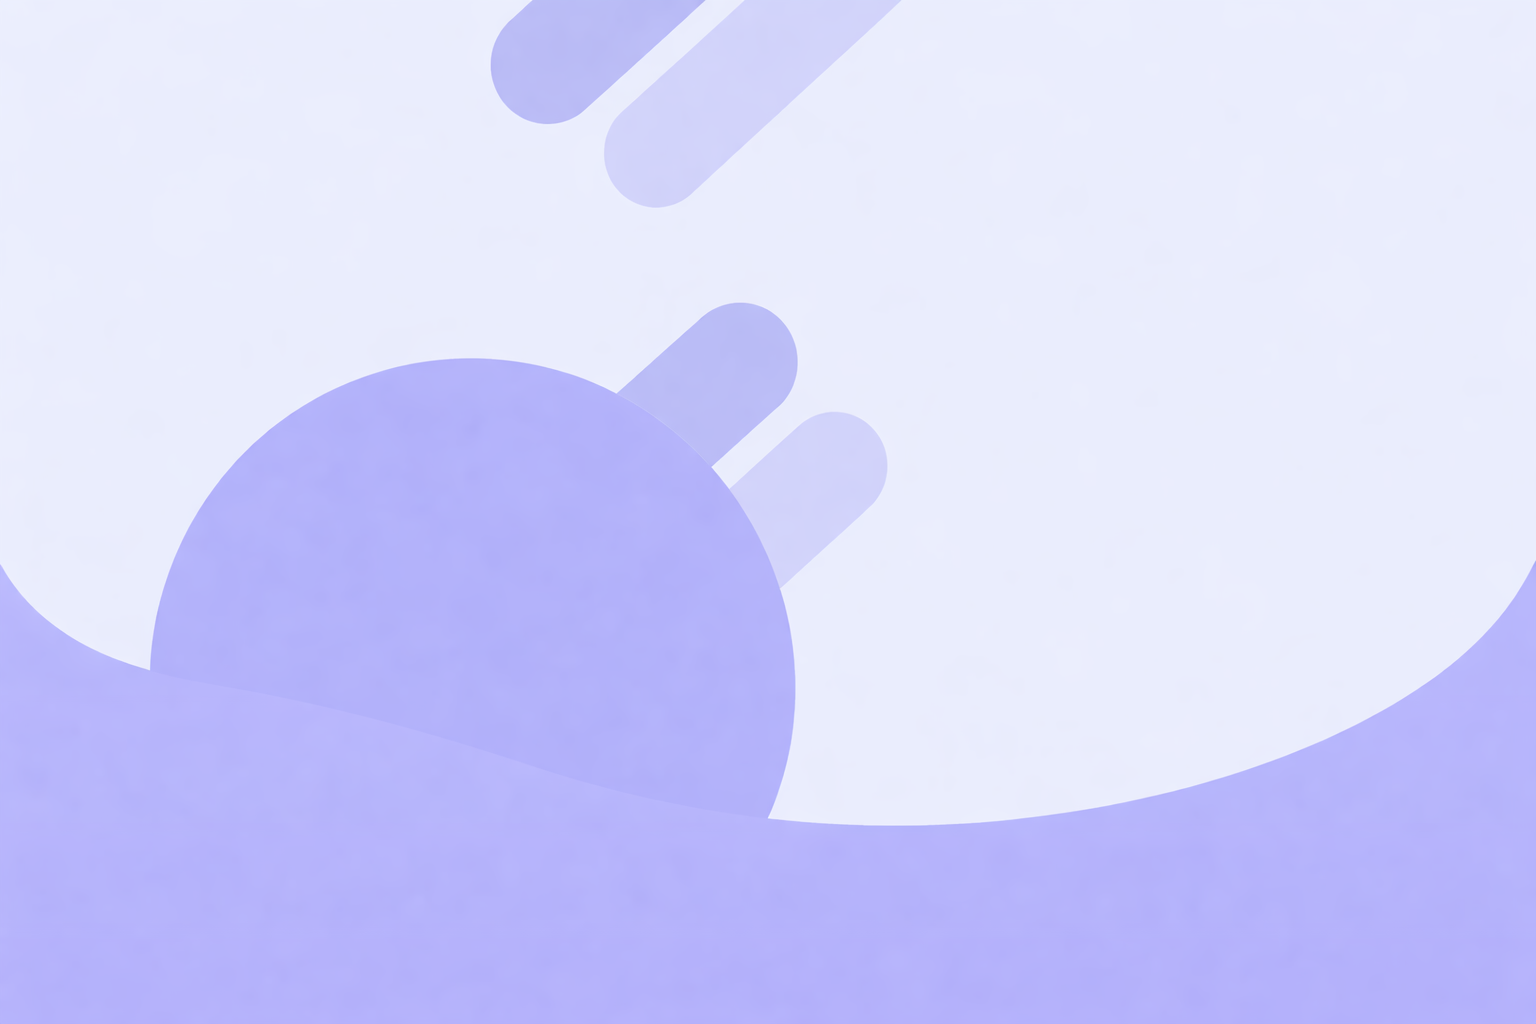
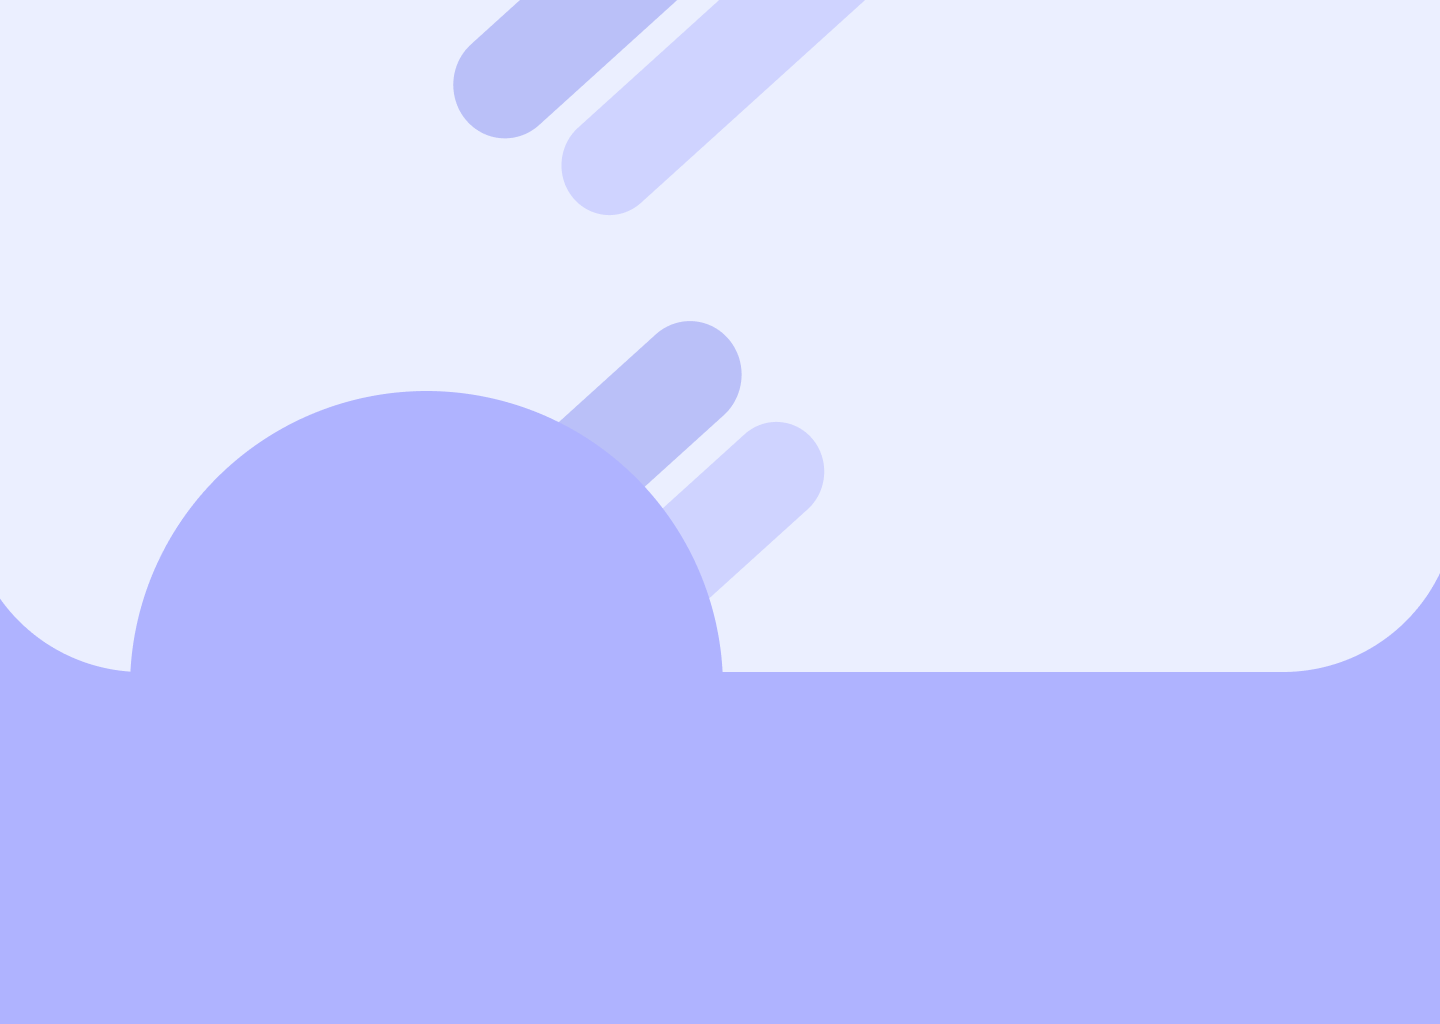
change made

diff --git a/src/Forms/ContactForm.jsx b/src/Forms/ContactForm.jsx
@@ -1,5 +1,5 @@
 import { useForm } from "react-hook-form";
-import { Box,Button,TextField } from "@mui/material"
+import { Box,Button,FormControl,FormLabel } from "@mui/material"
 import FormInput from "../components/Form/FormInput"
 
 
@@ -7,7 +7,9 @@ export default function ContactForm(){
 
     const {register,handleSubmit,formState : {errors}} = useForm({mode: "onChange"});
     
-    const onSubmit = (data) => console.log(data)
+    const onSubmit = (data) => {
+        console.log(data)
+    }
 
     return(
         <Box sx={{
@@ -18,57 +20,87 @@ export default function ContactForm(){
                 display: "flex",
                 flexDirection: "column",
                 alignItems:"center",
-                gap: {
-                    xs: "15px",
-                }
+                gap: "10px",
+                "& .MuiFormControl-root": {
+                    gap: 1,
+                    "& .MuiFormLabel-root": {
+                        fontFamily: "Montserrat",
+                        color: ""
+                    }
+                },
+                boxShadow: "0 0 10px 0 rgba(45, 45, 45, 0.4)",
+                padding: "30px",
+                bgcolor: "#EBEFFF",
+                borderRadius: "5px"
             }}>
-                <FormInput 
-                    label = "Enter Your Name:"
-                    name = "name"
-                    register = {register}
-                    errors={errors}
-                    validation={{
-                        required: "Name is Required",
-                        minLength: {
-                            value: 5,
-                            message: "Minimum 5 Characters"
-                        }
-                    }}
-                />
-                <FormInput 
-                    label = "Enter Your Email:"
-                    name = "email"
-                    register = {register}
-                    errors={errors}
-                    validation={{
-                        required: "Email is Required",
-                        pattern: {
-                            value: /^[A-Za-z0-9._%+-]+@[A-Za-z0-9.-]+\.[A-Za-z]{2,}$/i,
-                            message: "Email is not Valid"
-                        }
-                    }}
-                />
-                <FormInput 
-                    label = "Enter Your Mobile Number:"
-                    name = "mobile"
-                    register = {register}
-                    errors={errors}
-                    validation={{
-                        required: "Mobile Number is Required",
-                        minLength: {
-                            value: 10,
-                            message: "Mobile Number Should Have 10 Numbers"
-                        }
-                    }}
-                />
-                <TextField label="Message" multiline rows={4} color="secondary" focused sx={{width: {
-                    md: "500px",
-                    sm: "250px"
-                }}}/>
+                <FormControl sx={{
+                }}>
+                    <FormLabel htmlFor="full-name">Full Name:</FormLabel>
+                    <FormInput
+                        id = "full-name"
+                        name = "name"
+                        register = {register}
+                        errors={errors}
+                        validation={{
+                            required: "Name is Required",
+                            minLength: {
+                                value: 5,
+                                message: "Minimum 5 Characters"
+                            }
+                        }}
+                    />
+                </FormControl>
+                <FormControl>
+                    <FormLabel htmlFor="email-address">Email:</FormLabel>
+                    <FormInput 
+                        id = "email-address"
+                        name = "email"
+                        register = {register}
+                        errors={errors}
+                        validation={{
+                            required: "Email is Required",
+                            pattern: {
+                                value: /^[A-Za-z0-9._%+-]+@[A-Za-z0-9.-]+\.[A-Za-z]{2,}$/i,
+                                message: "Email is not Valid"
+                            }
+                        }}
+                    />
+                </FormControl>
+                <FormControl>
+                    <FormLabel htmlFor="mobile-number">Mobile Number:</FormLabel>
+                    <FormInput 
+                        id = "mobile-number"
+                        name = "mobile"
+                        register = {register}
+                        errors={errors}
+                        validation={{
+                            required: "Mobile Number is Required",
+                            pattern: {
+                                value: /^[0-9]{10}$/,
+                                message: "Mobile Number Should Have 10 Numbers"
+                            }
+                        }}
+                    />
+                </FormControl>
+                <FormControl>
+                    <FormLabel htmlFor="send-message">Write Your Message Here:</FormLabel>
+                    <FormInput 
+                        id = "send-message"
+                        name = "message"
+                        register = {register}
+                        errors={errors}
+                        multiline
+                        rows={5}
+                    />
+                </FormControl>
+                
                 <Button type="submit" variant="contained" sx={{
-                    width:{
-                        md: "100px"
-                    }}}>
+                    alignSelf: "flex-end",
+                    bgcolor: "#656ED3",
+                    color: "#AFB3FF",
+                    borderRadius: "12px",
+                    padding: "5px 25px"
+                    }}>
                     Submit
                 </Button>
             </Box>

diff --git a/src/components/Form/FormInput.jsx b/src/components/Form/FormInput.jsx
@@ -1,13 +1,43 @@
 import { TextField } from "@mui/material";
 
-export default function FormInput({label,name,register,errors,validation,rows,...rest}){
-    console.log(rest)
+export default function FormInput({id,name,register,errors,validation,multiline = false,rows = 1,...rest}){
+
 
     return(
-        <TextField rows={rows} label={label} {...register(name,validation)} error={!!errors[name]} helperText={errors[name]?.message} color="secondary" size="small" {...rest} focused sx={{
+        <TextField 
+        id = {id}
+        multiline={multiline}
+        rows={rows} 
+        {...register(name,validation)} 
+        error={!!errors[name]} 
+        helperText={errors[name]?.message} 
+        color="secondary" 
+        size="small" 
+        {...rest} 
+        sx={{
+            fontFamily: "monospace",
             width: {
                 md: "500px",
                 sm: "250px"
+            },
+            "& .MuiOutlinedInput-root": {
+                borderRadius: "20px",
+                "& fieldset": {
+                    borderWidth: "2px",
+                borderColor: "#AFB3FF"
+                },
+                "&:hover fieldset": {
+                borderColor: "#656ED3"
+                },
+                "&.Mui-focused fieldset": {
+                borderColor: "green"
+            }}
+        }}
+        InputProps={{
+            sx: {
+                fontFamily: "monospace",
+                fontSize: "14px",
+                color: "gray"
             }
         }}/>
     )

diff --git a/src/components/Contact/Contact.jsx b/src/components/Contact/Contact.jsx
@@ -1,19 +1,41 @@
 import SectionHeading from "../SectionHeading";
 import ContactForm from "../../Forms/ContactForm";
-import { Box } from "@mui/material";
-import { useForm } from 'react-hook-form'
+import { Box,Typography } from "@mui/material";
+import {h3style} from "../Other"
 
 export default function Contact(){
 
     return(
         <Box sx={{
-            backgroundImage: "url('contact.png')",
+            height: "100vh",
+            backgroundImage: "url('contact1.png')",
             backgroundSize: "cover",
             backgroundPosition: "center",
+            padding: {
+                sm: "50px",md: "70px"
+            }
         }}>
-            <SectionHeading categories="CONTACT ME" />
+            {/* <SectionHeading categories="CONTACT ME" /> */}
             
-            <ContactForm />
+            <Box sx={{
+                display: "flex",
+                flexDirection: {
+                    md: "row",
+                    xs: "column"
+                },
+                justifyContent: "space-between",
+                "& > .MuiBox-root": {
+                    display: "flex",
+                    justifyContent: "center",
+                    width: "100%"
+            }}}>
+                <Box>
+                    <Typography sx={h3style}>Lets Get In Touch</Typography>
+                </Box>
+                <Box>
+                    <ContactForm />
+                </Box>
+            </Box>
         </Box>
     )
 }

diff --git a/src/components/Skills/Skills.jsx b/src/components/Skills/Skills.jsx
@@ -11,7 +11,7 @@ export default function Skills(){
     
 
     return(
-        <Box sx={{display: "flex",flexDirection: "column",alignItems: "center","& > .MuiBox-root": {width: "50%"}}}>
+        <Box sx={{display: "flex",flexDirection: "column",alignItems: "center",bgcolor: "#EBEFFF", "& > .MuiBox-root": {width: "50%"}}}>
             <SectionHeading categories="SKILLS" />
             <SkillsSection title="USING SKILLS:" Skills={tillNowArray}/>
             <SkillsSection title="LEARNING:" Skills={learningSkillsArray}/>

diff --git a/src/components/First/First.jsx b/src/components/First/First.jsx
@@ -8,8 +8,8 @@ export default function First(){
     return(
         <Box component="div" sx={{
             background: {
-                md: "linear-gradient(105deg, #e5e5e5 50%, black 50%)",
-                xs: "linear-gradient(190deg, #e5e5e5 60%, black 40%)"
+                md: "linear-gradient(105deg, #EBEFFF 50%, #AFB3FF 50%)",
+                xs: "linear-gradient(190deg, #EBEFFF 60%, #AFB3FF 40%)"
             }
         }}>
             <Navbar />

diff --git a/src/components/About/About.jsx b/src/components/About/About.jsx
@@ -6,7 +6,7 @@ import AboutContent from './AboutContent'
 export default function About(){
 
     return(
-        <Box>
+        <Box sx={{bgcolor: "#EBEFFF"}}>
             <SectionHeading categories="ABOUT ME"/>
             <Box sx={{
                 width: "100%",
